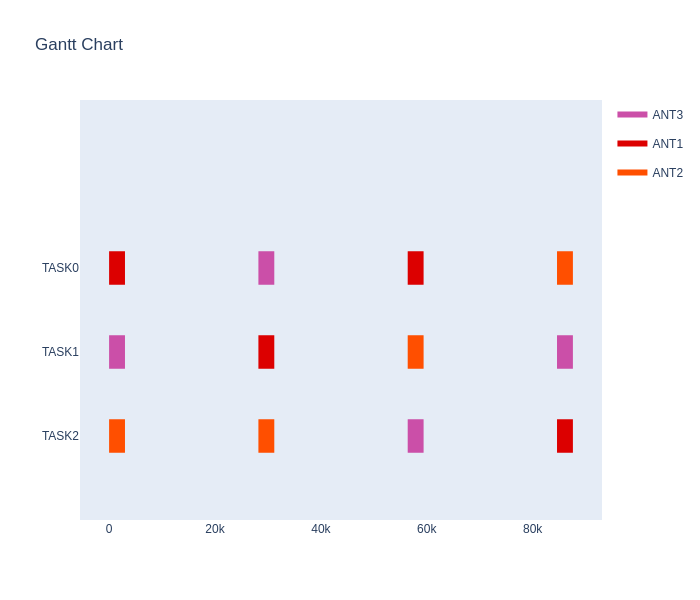
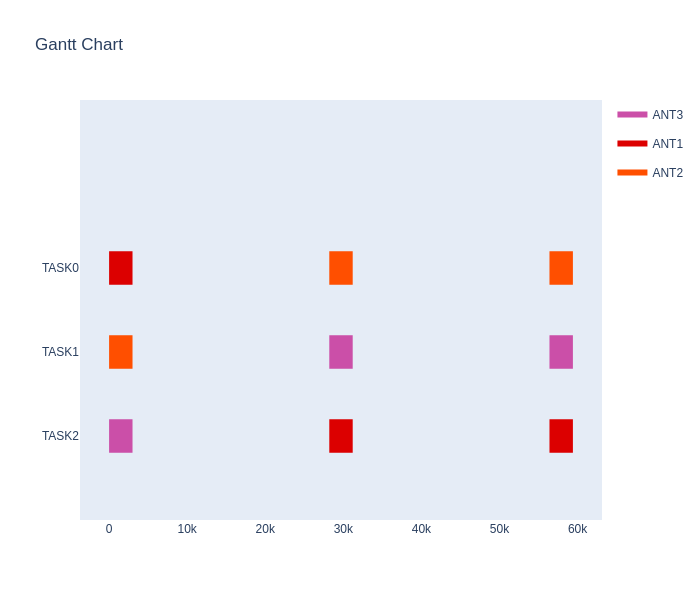
create Gannt for each antenne

diff --git a/src/Model1v2.2-latest/Gantt.py b/src/Model1v2.2-latest/Gantt.py
@@ -1,9 +1,12 @@
 import plotly.express as px
 import plotly.figure_factory as ff
 import pandas as pd
+import random
 
+# the keys is used for the colors / cataglories
+keys_in_task = []
 
-keys = []
+keys_in_ant = []
 
 def FormatInTask(dict_res):
     res = []
@@ -13,9 +16,24 @@ def FormatInTask(dict_res):
             if element['end'] == element['start']:
                 continue
             else:
-                keys.append(element['antenne'])
+                keys_in_task.append(element['antenne'])
                 res.append(dict(Task=task,Start=element['start'],Finish=element['end'],Resource=element['antenne']))
     return res
+
+def FormatInAnt(dict_res,dict_req):
+    res = []
+    for task_id in dict_req['Satellite']:
+        task = dict_req['Task number'][task_id]
+        satellite = dict_req['Satellite'][task_id]
+        keys_in_ant.append(satellite)
+        for element in dict_res[task]:
+            if element['end'] == element['start']:
+                continue
+            else:
+                res.append(dict(Task=element['antenne'],Start=element['start'],Finish=element['end'],Resource=satellite))
+    return res
+   
+
 
 colors = {
     'ANT1': 'rgb(220, 0, 0)',
@@ -36,13 +54,24 @@ colors = {
     'ANT16': 'rgb(20, 12, 190)'
 }
 
+
+def constructColors(targets_as_list):
+    dict_colors = {}
+    for target in targets_as_list:
+        r = random.randint(0,255)
+        g = random.randint(0,255)
+        b = random.randint(0,255)
+        color = 'rgb('+str(r)+', '+str(g)+', '+str(b)+')'
+        dict_colors[target] = color
+    return dict_colors
+
 def GanttForTask(dict_res,fig_name):
 
     part_colors = {}
 
     data = FormatInTask(dict_res)
-    
-    for key in keys:
+    # another to create color table is to use the constructColors() function
+    for key in keys_in_task:
         if key not in part_colors:
             part_colors[key] = colors[key]
     
@@ -62,7 +91,36 @@ def GanttForTask(dict_res,fig_name):
     fig.show()
     """
 
-def GanttForAntenne(dict_res):
+'''
+dict_req is the dictionary of requirements, an example of its structure is like:
+    {'Task number': {0: 'TASK0', 1: 'TASK4', 2: 'TASK8', 3: 'TASK12', 4: 'TASK16', 5: 'TASK20', 6: 'TASK24', 7: 'TASK28', 8: 'TASK32', 9: 'TASK36'}, 
+     'Satellite': {0: 'SAT15', 1: 'SAT12', 2: 'SAT21', 3: 'SAT17', 4: 'SAT07', 5: 'SAT09', 6: 'SAT22', 7: 'SAT11', 8: 'SAT18', 9: 'SAT03'}, 
+     'Priority': {0: 8, 1: 8, 2: 8, 3: 8, 4: 8, 5: 8, 6: 8, 7: 8, 8: 8, 9: 8}, 
+     'Duration': {0: 1851, 1: 1980, 2: 1810, 3: 2227, 4: 1983, 5: 2185, 6: 2328, 7: 2275, 8: 1934, 9: 1999}, 
+     'Earliest': {0: 0, 1: 0, 2: 0, 3: 0, 4: 0, 5: 0, 6: 0, 7: 0, 8: 0, 9: 0}, 
+     'Latest': {0: 1207749, 1: 1207620, 2: 1207790, 3: 1207373, 4: 1207617, 5: 1207415, 6: 1207272, 7: 1207325, 8: 1207666, 9: 1207601}, 
+     'Repetitive': {0: 1, 1: 1, 2: 1, 3: 1, 4: 1, 5: 1, 6: 1, 7: 1, 8: 1, 9: 1}, 
+     'Number occ': {0: -1, 1: -1, 2: -1, 3: -1, 4: -1, 5: -1, 6: -1, 7: -1, 8: -1, 9: -1}, 
+     'Min time lag': {0: 25200, 1: 25200, 2: 25200, 3: 25200, 4: 25200, 5: 25200, 6: 25200, 7: 25200, 8: 25200, 9: 25200}, 
+     'Max time lag': {0: 43200, 1: 43200, 2: 43200, 3: 43200, 4: 43200, 5: 43200, 6: 43200, 7: 43200, 8: 43200, 9: 43200}
+    }
+'''
+def GanttForAntenne(dict_res,dict_req,fig_name):
+    part_colors = {}
+
+    data = FormatInAnt(dict_res,dict_req)
+    
+    part_colors = constructColors(keys_in_ant)
+    # print(part_colors)
+ 
+    df = pd.DataFrame(data)
+    # df['delta'] = df['Finish'] - df['Start']
+
+    fig = ff.create_gantt(df,index_col='Resource', colors = part_colors, show_colorbar=True,group_tasks=True)
+    fig.update_layout(xaxis_type='linear')
+    fig.show()
+    fig.write_image(fig_name)
+
     return 0
 
 

diff --git a/src/Model1v2.2-latest/ModelCP.py b/src/Model1v2.2-latest/ModelCP.py
@@ -7,6 +7,9 @@ import parse
 def SimpleSatProgram(model,dict_data,dict_non_visib,n_tasks,list_sats,list_antennes,filename):
     """ CP-SAT example to showcase calling the solver."""
 
+    # Remember that the task id of dict_data is the index but not the task number
+    # the task number is stored in one column
+    
     # number of variables : tasks * antennes
     n_antennes = len(list_antennes)
     # bounds for time
@@ -23,6 +26,7 @@ def SimpleSatProgram(model,dict_data,dict_non_visib,n_tasks,list_sats,list_anten
 
     # satellites
     dict_satellites = dict_data['Satellite']
+    print("@dict of satellites:",dict_satellites)
 
     # min lag and max lag
     dict_min_lag = dict_data['Min time lag']

diff --git a/src/Model1v2.2-latest/main.py b/src/Model1v2.2-latest/main.py
@@ -141,10 +141,12 @@ if __name__ == '__main__':
         print("Wrong arguments")
     print("==>START CHECKING<==")
     # print(dict_req)
-    print("-->results are<--")
-    print(dict_req)
+    # print("-->results are<--")
+    # print(dict_res)
     if check(dict_req,list_sats,list_ants,dict_res):
         parsed = parse.parse('./PIE_SXS10_data/{}/{}.txt',filename)
         fig_name = 'results/'+parsed[1]+'.png'
         GanttForTask(dict_res,fig_name)
+        fig_name2 = 'results/'+parsed[1]+'_T.png'
+        GanttForAntenne(dict_res,dict_req,fig_name2)
     print("==>END CHECKING<==")
